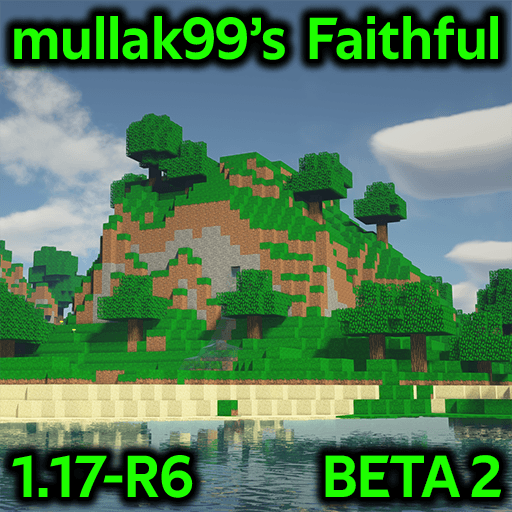
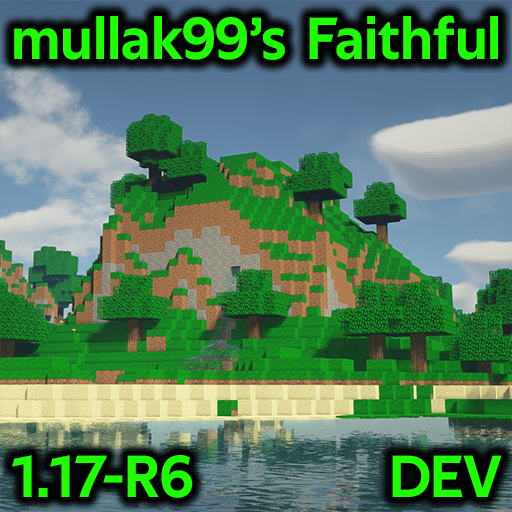
MC1.17-R6_DEV211117-1
- Replaced placeholder goat texture

diff --git a/ChangeLog.md b/ChangeLog.md
@@ -3,7 +3,7 @@ All notable changes to mullak99's Faithful will be documented in this file.
 
 ## [Unreleased]
 ### Added
-- Added Goat entity texture (Placeholder)
+- Added Goat entity texture
 
 ### Changed
 - Replaced Bamboo (block) textures

diff --git a/README.md b/README.md
@@ -1,6 +1,6 @@
 # mullak99's Faithful 32x
 
-**Current Branch Version:** _MC1.17-R6_BETA2_  
+**Current Branch Version:** _MC1.17-R6_DEV211117-1_  
 
 ## Official Links
 
